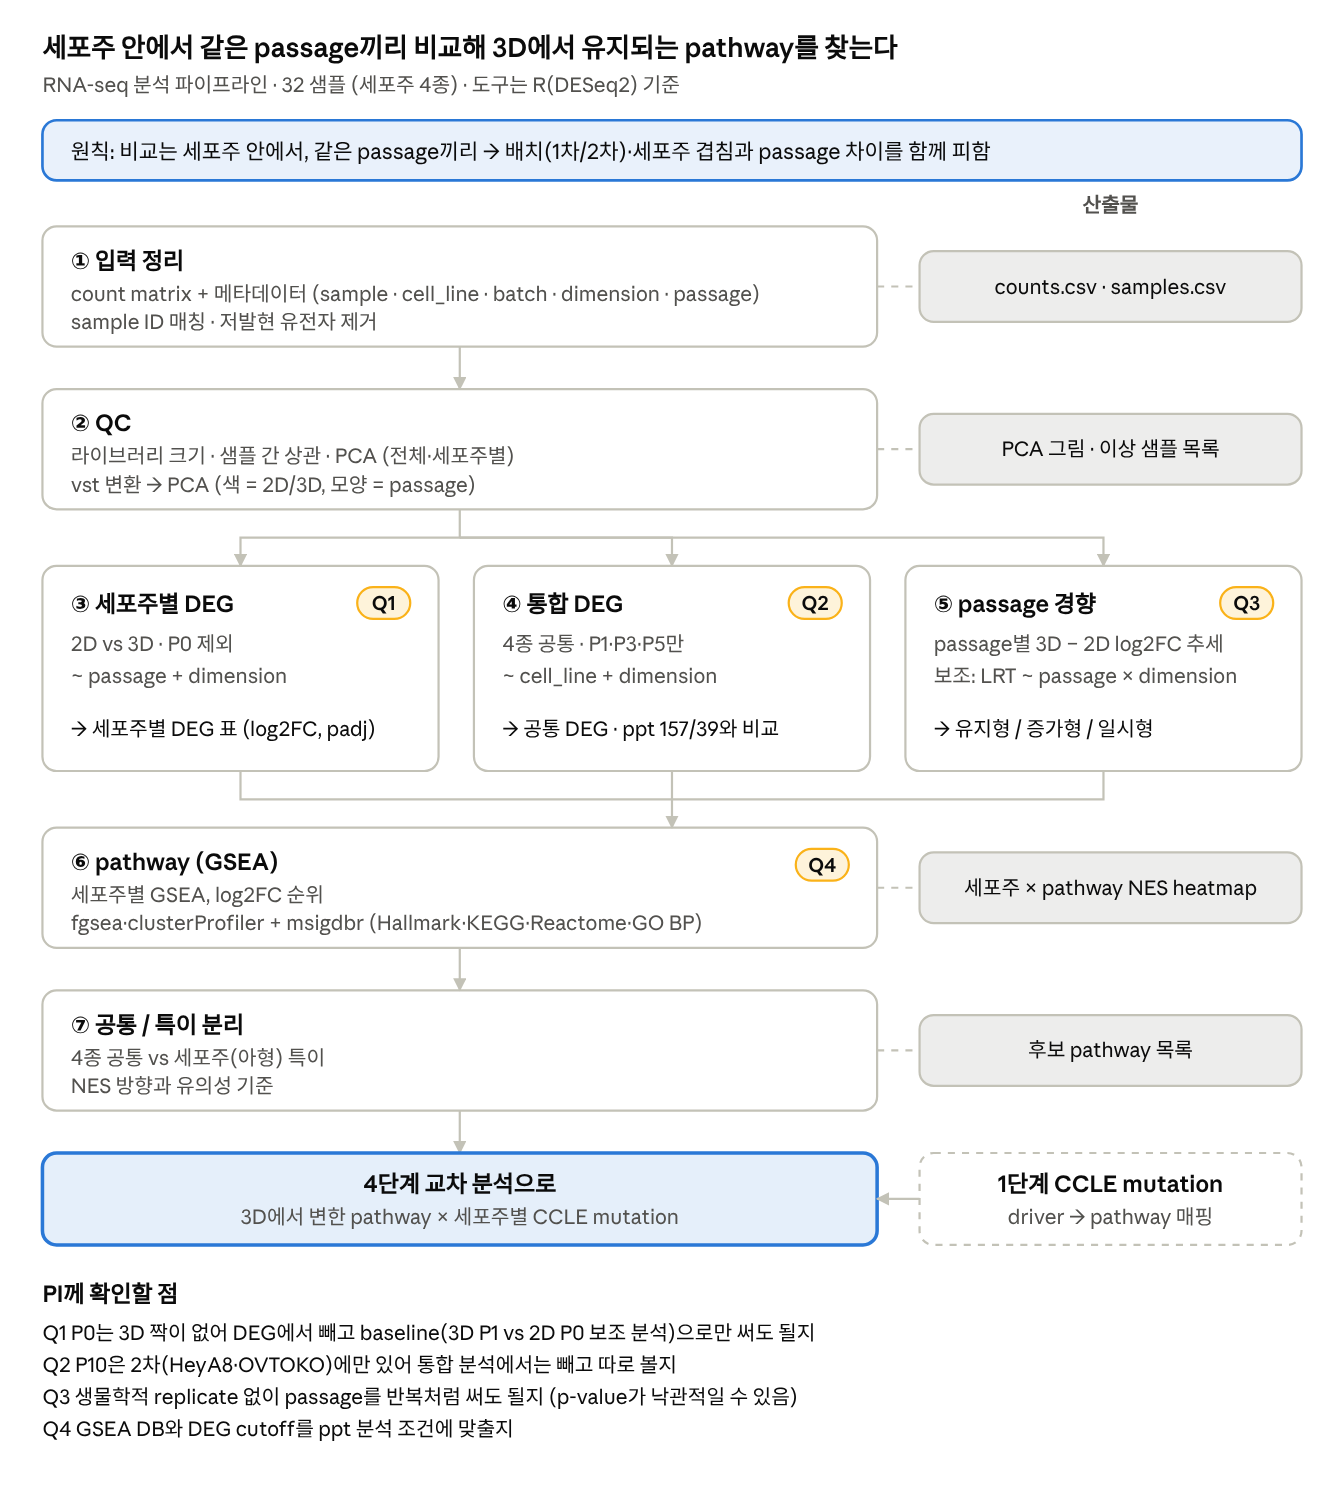
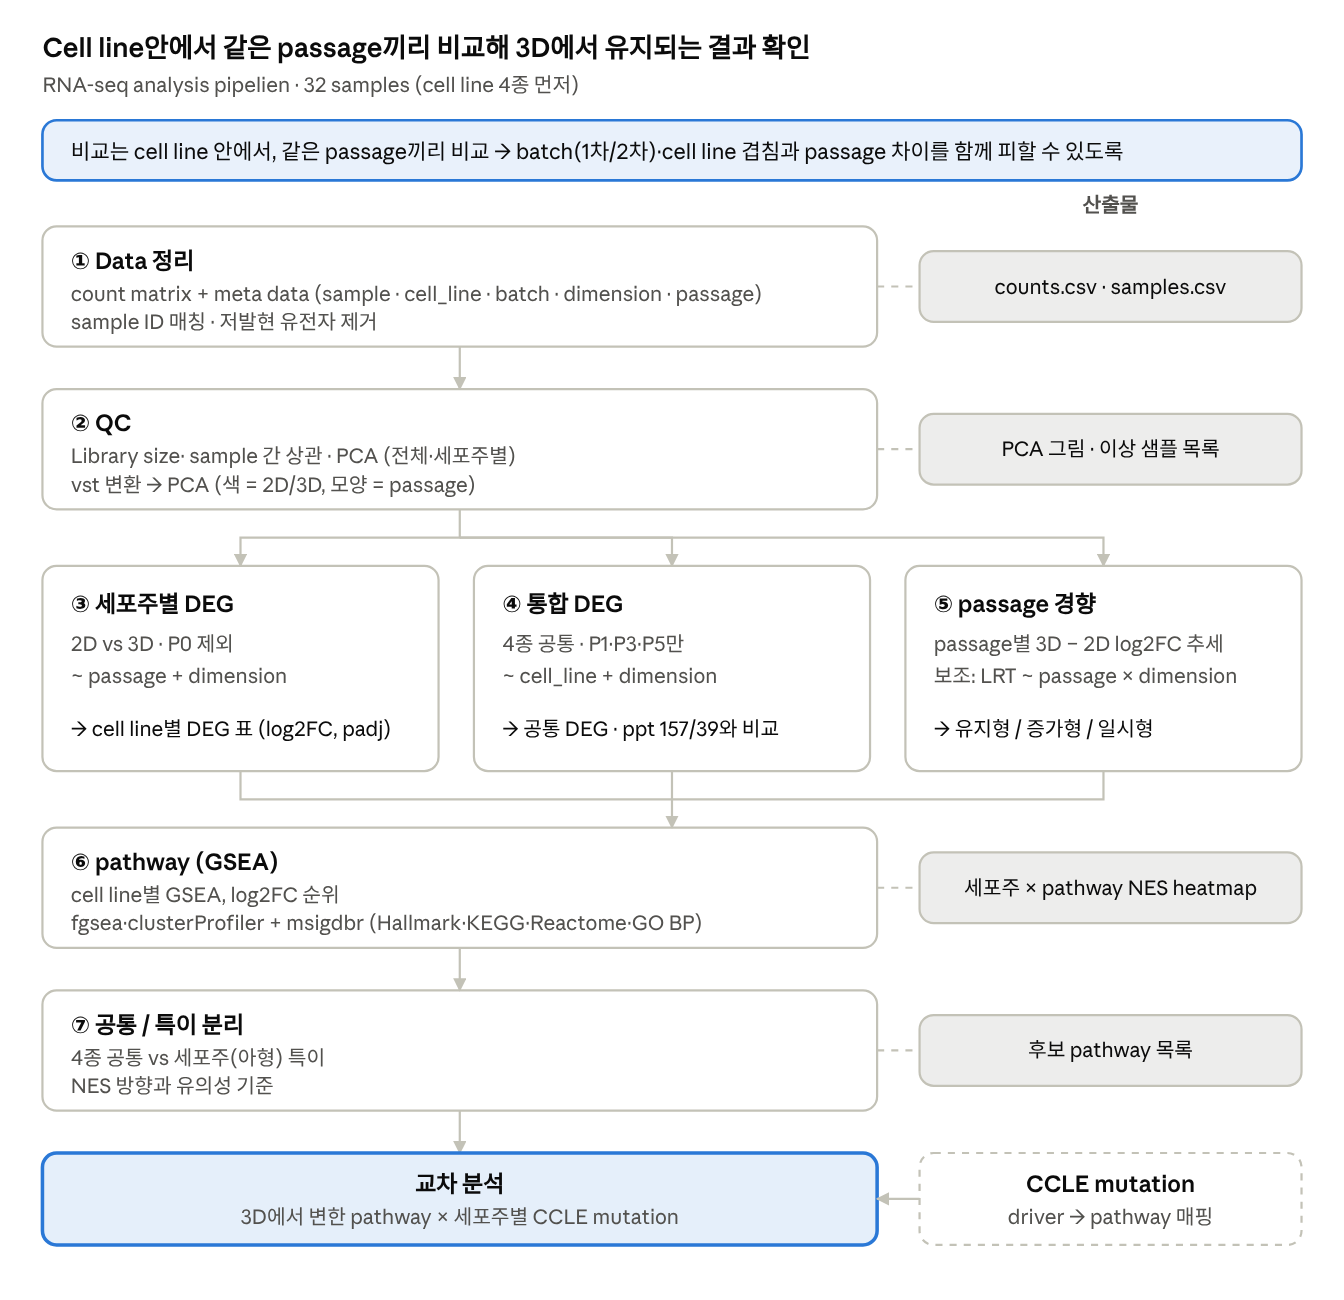
파이프라인 모식도: PI 질문 제거, 사용자 수정 문구를 SVG·Notion에 반영
Claude-Session: https://claude.ai/code/session_01A7ib3VZK7j2jp9Pem35jhT

diff --git a/scripts/make_overview_figures.py b/scripts/make_overview_figures.py
@@ -255,7 +255,7 @@ def pill(g, tid, x, y, words):
 
 
 def pipeline():
-    f = Fig(760, 836, "세포주 안에서 같은 passage끼리 비교해 3D에서 유지되는 pathway를 찾는다")
+    f = Fig(760, 728, "세포주 안에서 같은 passage끼리 비교해 3D에서 유지되는 pathway를 찾는다")
     f.items.append(T("title", 24, 32, f.title, size=15, weight=600, anchor="start"))
     f.items.append(T("subtitle", 24, 52, "RNA-seq 분석 파이프라인 · 32 샘플 (세포주 4종) · 도구는 R(DESeq2) 기준",
                      size=11.5, fill="quiet", anchor="start"))
@@ -299,7 +299,6 @@ def pipeline():
         g.append(T(f"{tid}-l1", x + 16, y3 + 48, l1, size=11.5, fill="quiet", anchor="start"))
         g.append(T(f"{tid}-l2", x + 16, y3 + 66, l2, size=11.5, fill="quiet", anchor="start"))
         g.append(T(f"{tid}-out", x + 16, y3 + 96, out, size=11.5, anchor="start"))
-        pill(g, qid, x + 178, y3 + 12, q)
 
     g = f.group("links")
     g.append(P("M260 196V220"))
@@ -314,7 +313,6 @@ def pipeline():
 
     step("step-gsea", "s6", 468, 68, "⑥ pathway (GSEA)", "세포주별 GSEA, log2FC 순위",
          "fgsea·clusterProfiler + msigdbr (Hallmark·KEGG·Reactome·GO BP)", "세포주 × pathway NES heatmap")
-    pill(f.items[-1][2], "q4-tag", 450, 480, "Q4")
     step("step-split", "s7", 560, 68, "⑦ 공통 / 특이 분리", "4종 공통 vs 세포주(아형) 특이",
          "NES 방향과 유의성 기준", "후보 pathway 목록")
 
@@ -328,14 +326,6 @@ def pipeline():
     g.append(T("ccle-sub", 628, 692, "driver → pathway 매핑", size=11.5, fill="quiet"))
     g.append(P("M520 678H496"))
 
-    g = f.group("questions")
-    g.append(T("q-head", 24, 736, "PI께 확인할 점", weight=600, anchor="start"))
-    qs = [("q1", "Q1  P0는 3D 짝이 없어 DEG에서 빼고 baseline(3D P1 vs 2D P0 보조 분석)으로만 써도 될지"),
-          ("q2", "Q2  P10은 2차(HeyA8·OVTOKO)에만 있어 통합 분석에서는 빼고 따로 볼지"),
-          ("q3", "Q3  생물학적 replicate 없이 passage를 반복처럼 써도 될지 (p-value가 낙관적일 수 있음)"),
-          ("q4", "Q4  GSEA DB와 DEG cutoff를 ppt 분석 조건에 맞출지")]
-    for i, (tid, words) in enumerate(qs):
-        g.append(T(tid, 24, 758 + i * 18, words, size=11.5, anchor="start"))
     return f
 
 

diff --git a/sync/SYNC.md b/sync/SYNC.md
@@ -38,6 +38,7 @@ Claude Docs 문서: https://claude.ai/code/artifact/fe866b38-7b85-4c83-b3e8-2fc0
 
 | 시각 | 방향 | 내용 |
 | --- | --- | --- |
+| 2026-09-30 17:xx | Docs → Notion | 파이프라인 위젯의 사용자 수정(제목·부제·문구) 반영 + 요청대로 PI 질문(Q1–Q4) 제거, SVG 교체(이전 Notion 이미지는 사용자 삭제 필요). Docs '6. 스토리 정리' 체크 항목의 사용자 수정은 편집 중일 수 있어 다음 동기화로 미룸 |
 | 2026-09-30 15:xx | 양쪽 동시 수정 | Analysis Pipeline 모식도 추가(Docs 위젯, Notion SVG), 작업 로그 한 줄, 메인 기준본 갱신 |
 | 2026-09-30 14:xx | Docs → Notion | 세포주 8종 위젯의 사용자 수정(제목·부제·SKOV-3 설명·RMG-II 변이·범례 문구)을 SVG로 반영해 Notion 이미지 추가. 이전 이미지는 사용자 삭제 필요 |
 | 2026-09-30 14:xx | Docs → Notion | 난소 종양 분류 위젯(사용자 수정 + 댓글 요청: 가운데 맞춤, Mucinous에 MCAS·RMUG-S, 프로젝트 세포주 굵게)을 SVG로 다시 만들어 Notion 이미지 추가. 이전 이미지(같은 캡션, 두 번째 것)는 캡션 변경이 안 돼 사용자 삭제 필요 |

diff --git a/sync/last_synced.md b/sync/last_synced.md
@@ -244,7 +244,7 @@ mutation 쪽과 RNA 쪽은 동시에 진행할 가능, 둘이 4에서 만나야 
 
 비교는 cell line 안에서, **같은 passage끼리**.<br>-\> 이렇게 하면 batch-cell line 겹침과 passage 차이를 함께 피할 수 있음. 도구는 R(DESeq2) 기준.
 
-\[embedded content: RNA-seq 분석 파이프라인 · 7단계, PI 확인 질문 4개\]
+\[embedded content: RNA-seq 분석 파이프라인 · 7단계\]
 
 <table header-row="true" header-column="false">
 	<tr>
@@ -564,7 +564,7 @@ sub[cols].sort_values(cols[:2]).to_csv("ov8_driver_mutations.csv", index=False)
 	</tr>
 	<tr>
 		<td>2026-09-30</td>
-		<td>Analysis Pipeline 모식도 추가 (7단계 흐름, 산출물, PI 확인 질문 Q1–Q4)</td>
+		<td>Analysis Pipeline 모식도 추가 (7단계 흐름, 산출물)</td>
 		<td>PI께 파이프라인 확인, 답에 따라 계획 수정</td>
 	</tr>
 	<tr>
